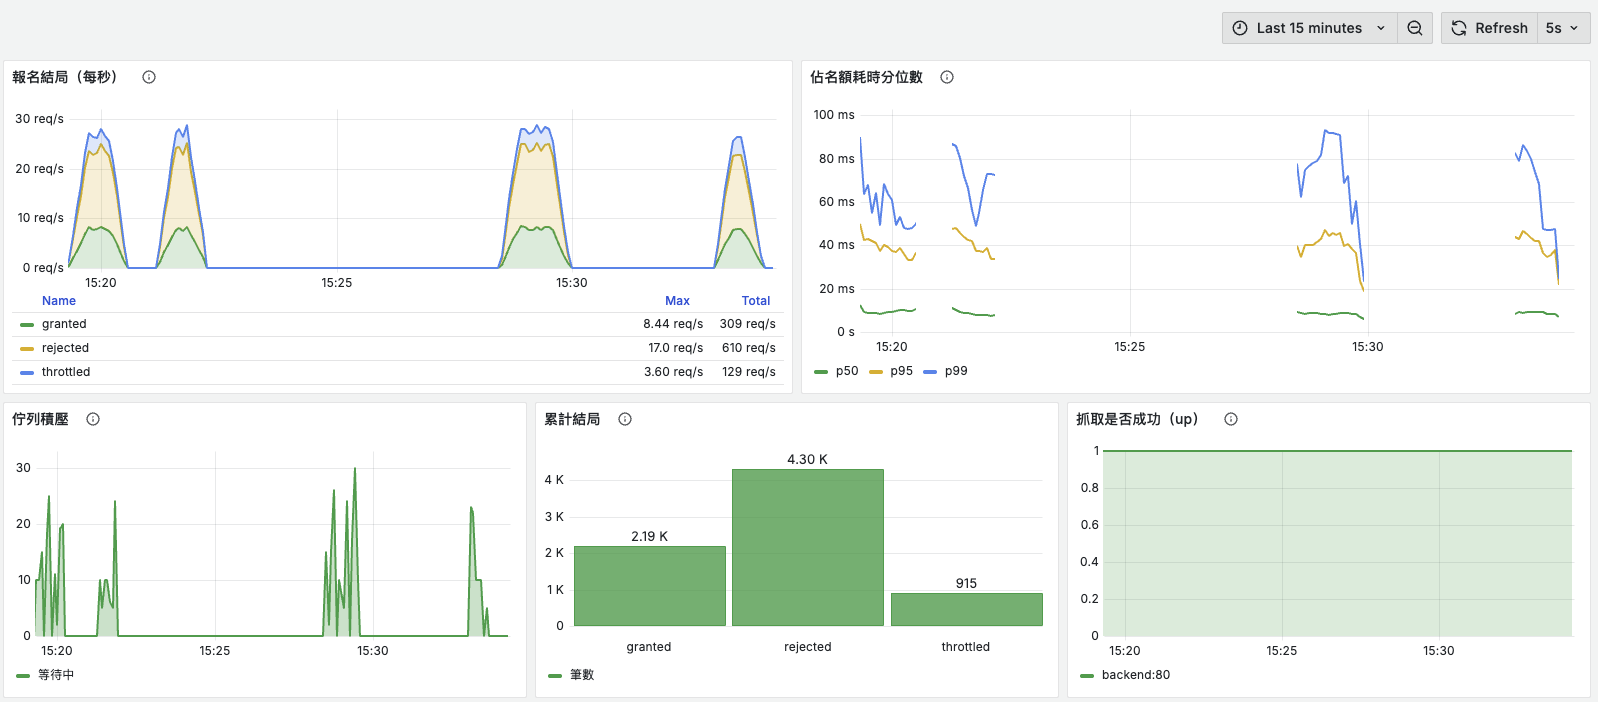
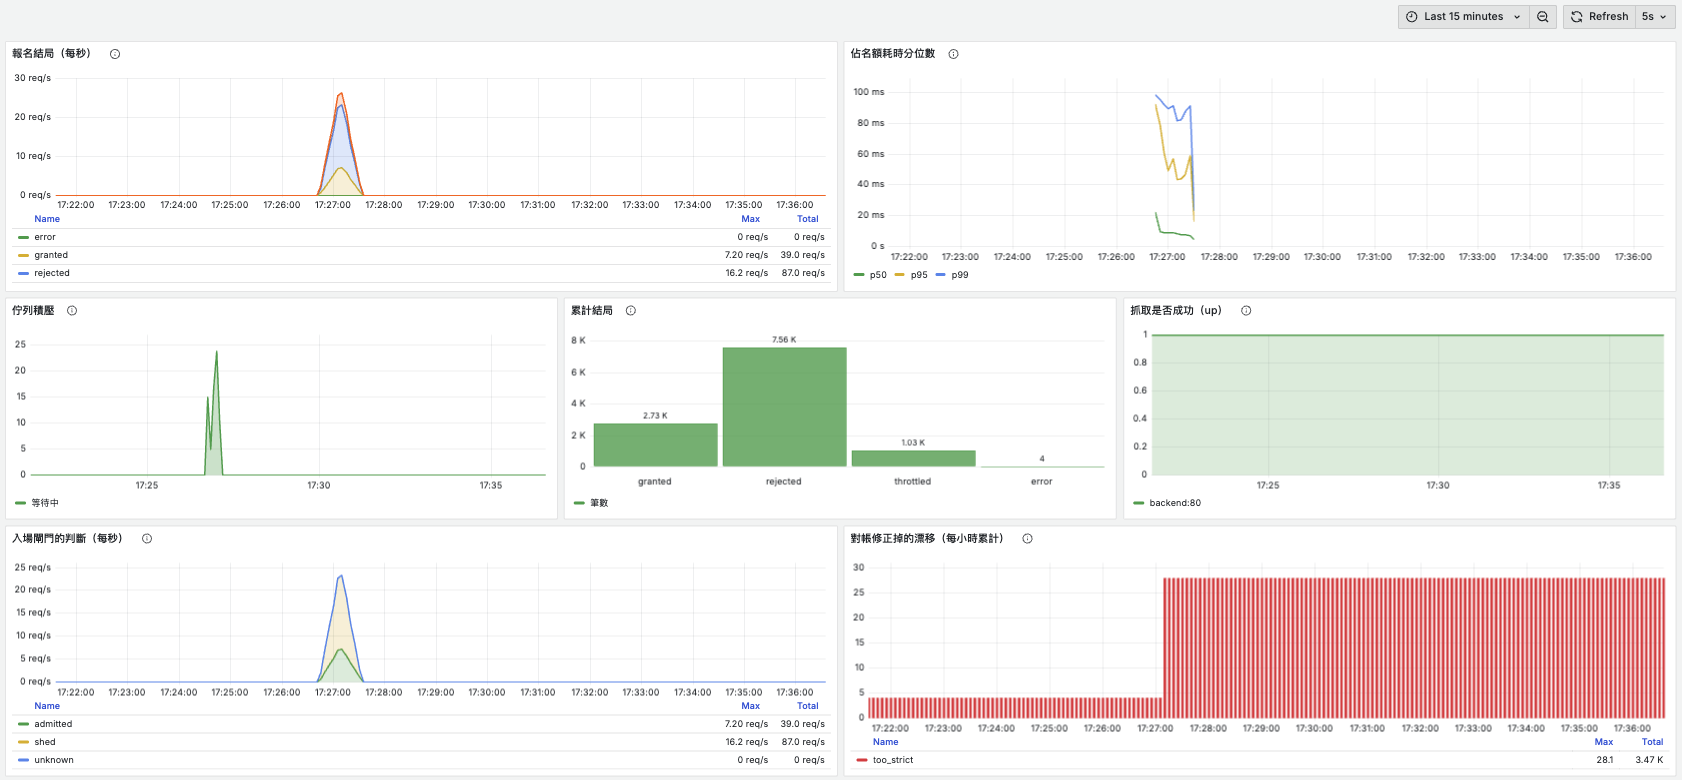
docs: 寫下 M6 —— 削峰、兩個真相來源，以及我知道它往哪個方向漂
到 M5 為止 MySQL 一直是唯一的真相來源，所以前面所有討論都不必處理「兩份資料不
一致」。M6 打破這件事，README 這一節就是把代價講清楚。

主軸是漂移的兩個方向後果完全不對稱：偏寬鬆只是削峰效果變差，偏嚴格是明明有位子
卻拒絕使用者，而且不會有任何錯誤訊息。超賣仍然不可能 —— MySQL 那層一行都沒動。
這個不對稱決定了每一個 fail-open 的選擇，也決定了歸還放在模型、佔用留在 controller。

量到的數字：列鎖等待 99 -> 8（降 92%），等待總時間約 18 秒 -> 0.7 秒（降 96%）。
一開始只量語句數得到「降 26%」，差點就這樣寫下去 —— 那個指標嚴重低估效益，因為
被削掉的請求省下的正是「在活動那一列上排隊」的那兩句，而其餘幾句是不互相排隊的
索引查找。資料庫真正稀缺的不是執行語句的能力，是那一列上的排隊位置。

漂移是實測的、可重現的：六輪壓測、六個閘門、每一個都剛好偏嚴格 4 個名額，偏寬鬆
0。來源是 6.2 就明寫「已知且刻意不修」的那條重試路徑。選擇不修的理由寫在文件裡：
有界、方向已知、指標會顯示、五分鐘內自癒。

另外補了一節寫儀表板上那個 error = 4 是怎麼查出來的：up 全程為 1、負載平衡零 5xx，
時間軸指向 16:04 我自己那幾輪撞爆連線數的量測。有意思的是為什麼是 4 而不是 50 ——
auth:sanctum 排在指標中介層之前，死在認證階段的請求指標看不到。指標的位置就是它
的視野。

儀表板加兩個面板（閘門判斷、對帳漂移），截圖更新，roadmap 六個里程碑全部打勾。

diff --git a/Sporpulation-分散式升級-Roadmap.md b/Sporpulation-分散式升級-Roadmap.md
@@ -28,7 +28,7 @@
 - [x] **M3** 想清楚「哪裡才真的需要分散式鎖」（leader election）
 - [x] **M4** 水平擴展 + 跨節點壓測 ← **殺手級 README 段落，做到這裡就夠面試用**
 - [x] **M5** 可觀測性（讓 p99 是量出來的，不是嘴出來的）
-- [ ] **M6（進階選配）** 搶票級架構：Redis 入場閘門 + DB 對帳
+- [x] **M6（進階選配）** 搶票級架構：Redis 入場閘門 + DB 對帳
 
 ---
 
